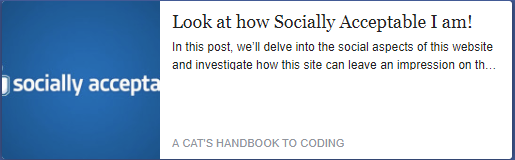
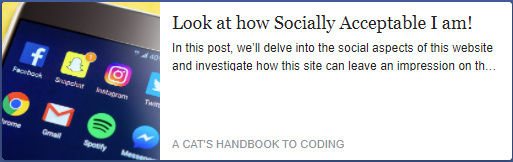
all images should now be legal for me to use

diff --git a/_includes/head.html b/_includes/head.html
@@ -5,10 +5,23 @@
 
   {% assign url_fixed = site.url | replace:'index.html','' | absolute_url %}
 
+  <!-- Fix og:image to work in supposedly all situations. -->
+  {% if page.thumbnail %} <!-- There is a page-specific thumbnail (blog post) -->
+    {% if page.thumbnail contains "www." or page.thumbnail contains "http" %}
+      <!-- If it's an external image  -->
+      {% assign post_thumbnail = page.thumbnail %}
+    {% else %}
+      <!-- If it's an image hosted on this site -->
+      {% assign post_thumbnail = site.url | append: page.thumbnail %}
+    {% endif %}
+  {% else %} <!-- Use default. -->
+    {% assign post_thumbnail = site.url | append: "/assets/img/caticon.png" %}
+  {% endif %}
+
   <meta property="og:title" content="{{ page.title | default: site.title }}" />
   <meta property="og:type" content="website" />
   <meta property="og:site_name" content="{{ site.title }}" />
-  <meta property="og:image" content="{{ page.thumbnail | default: "http://localhost:4000/assets/img/caticon.png" }}" />
+  <meta property="og:image" content="{{ post_thumbnail }}" />
   <meta property="og:description" name="description" content="{{ page.excerpt | default: site.description | strip_html | normalize_whitespace | truncate: 160 | escape }}">
   <meta property="og:url" content="{{ url_fixed }}" />
 

diff --git a/_layouts/post.html b/_layouts/post.html
@@ -7,7 +7,7 @@ comments: true
   <div class="post-content" itemprop="articleBody">
     <div class="post-header">
         {% if page.thumbnail != nil %}
-        <img src="{{ page.thumbnail }}" alt="Post thumbnail." title="Image Source: {{page.thumbnail}}">
+        <img src="{{ page.thumbnail }}" alt="Post thumbnail." title="This post's thumbnail.">
         {% else %}
         <img src="/assets/img/noimg.png" alt="Post thumbnail." title="This post had no thumbnail.">
         {% endif %}

diff --git a/_pages/about.md b/_pages/about.md
@@ -24,7 +24,7 @@ I have been programming since 2010 when I was first introduced to C# during my t
 I work with 3D as a hobby using mainly the application [3ds Max](https://www.autodesk.eu/products/3ds-max/overview). I create mostly "fan art" images and animations based on the game *World of Warcraft* using various assets taken from the actual game files. I do also, however, model, texture, and rig a fair bit myself and have created a few semi-complex character models with proper textures and rigging.
 
 #### Some examples of my work
-It should be noted that all of these examples are quite old and not accurate representations of where I am right now. Not that there's been much of a change but still.
+It should be noted that all of these examples are quite old and not accurate representations of where I am right now. Not that there's been much of a change but still. Click the images to enlarge.
 <script src="/assets/js/gallery.js" type="text/javascript" defer></script>
 <div class="gallery-wrapper">
 <img src="/assets/img/about/img1.png" alt="An example of my 3D work.">

diff --git a/index.md b/index.md
@@ -6,8 +6,8 @@ layout: home
 ---
 # Welcome to {{ site.title }}!
 There's not a whole lot to say here. Feel free to:
-* Look at the cat eating a banana --> 
+* Look at the pretty cat --> 
 * Head on over and take a look at the [blog]({{ "/blog/" | relative_url }})
 * Just chill here for a bit
 * Or head on back to [Google](https://google.com)
-![A cat eating a banana.](https://i.giphy.com/yAqdjThdDEMF2.gif)
+![A cat!](assets/img/cat1.png)
